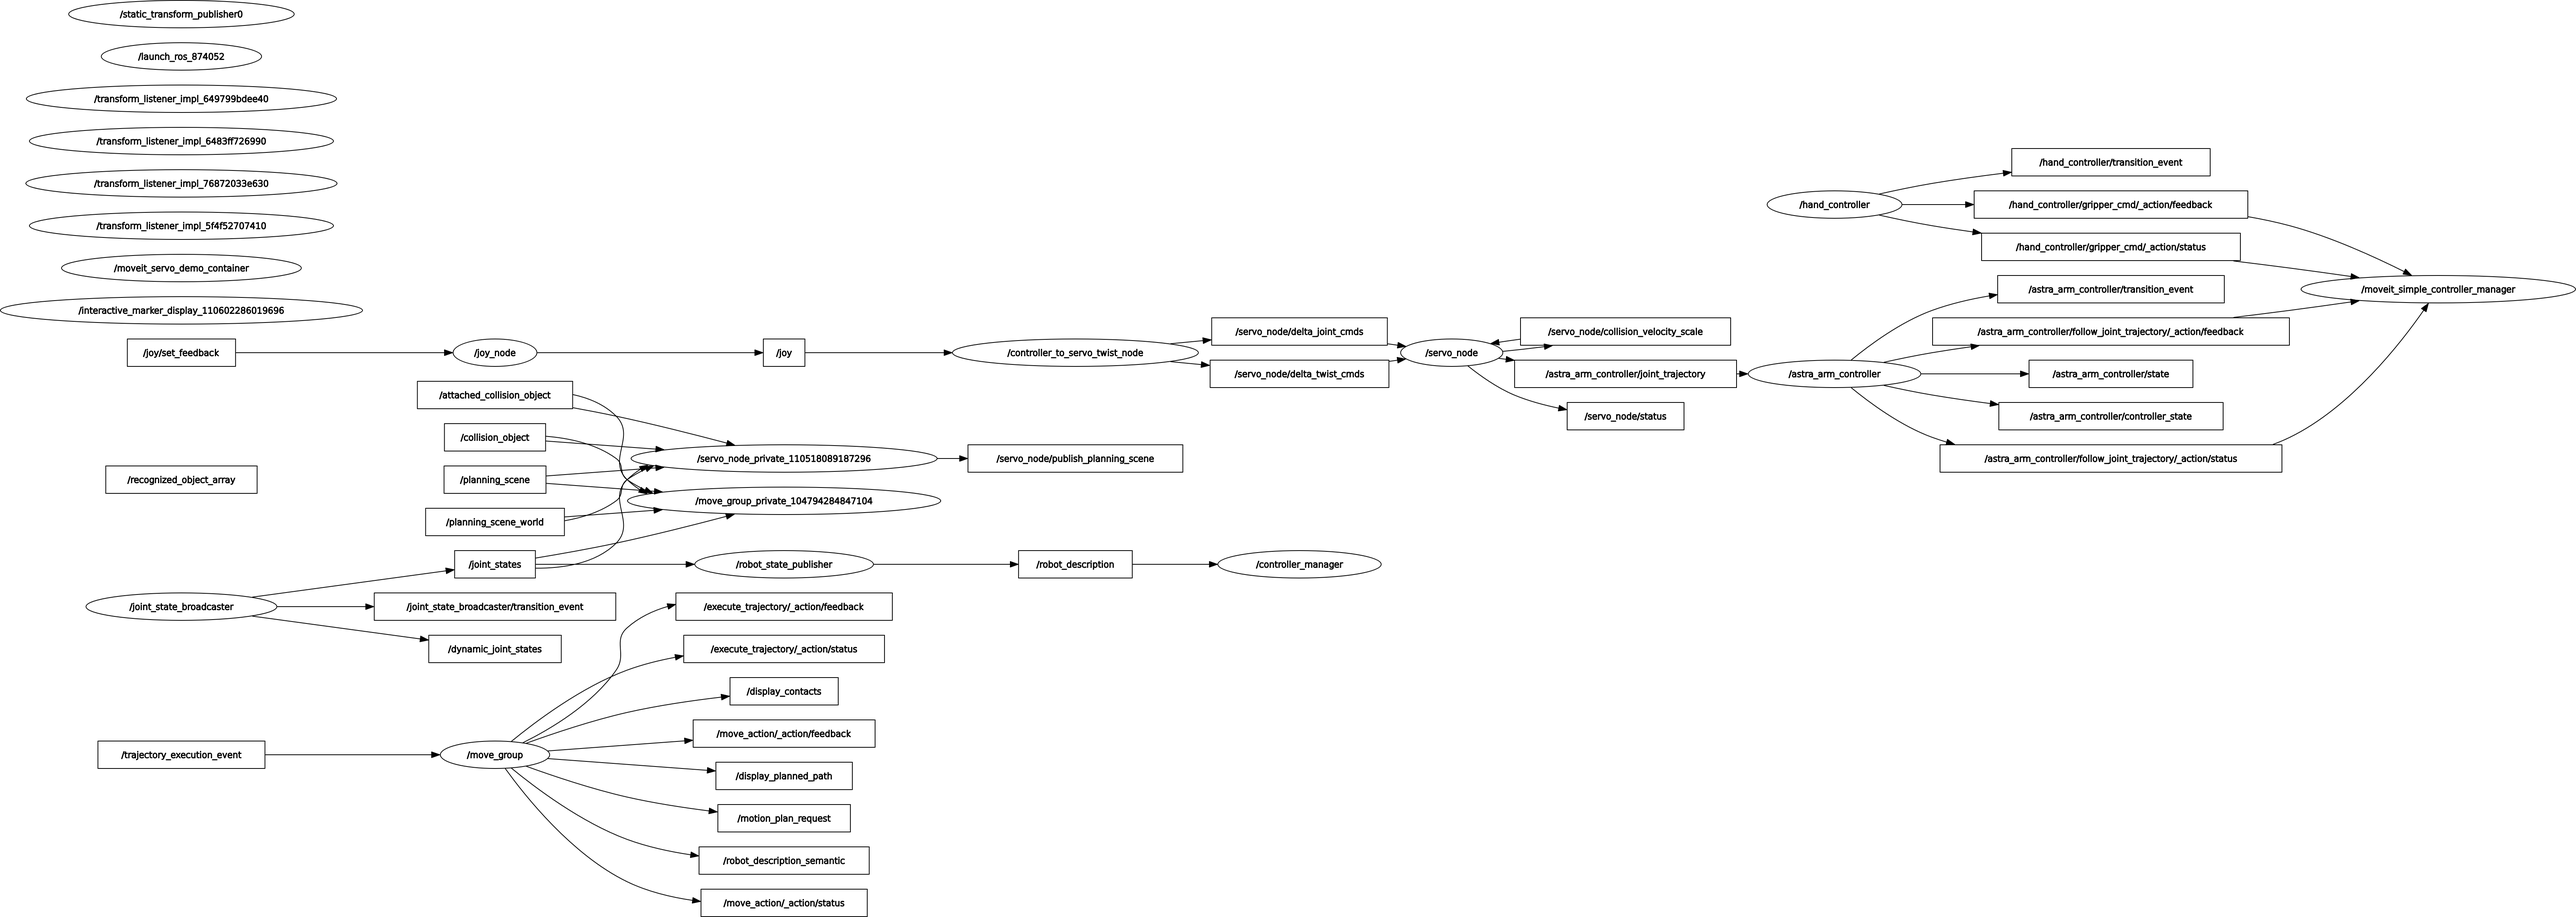
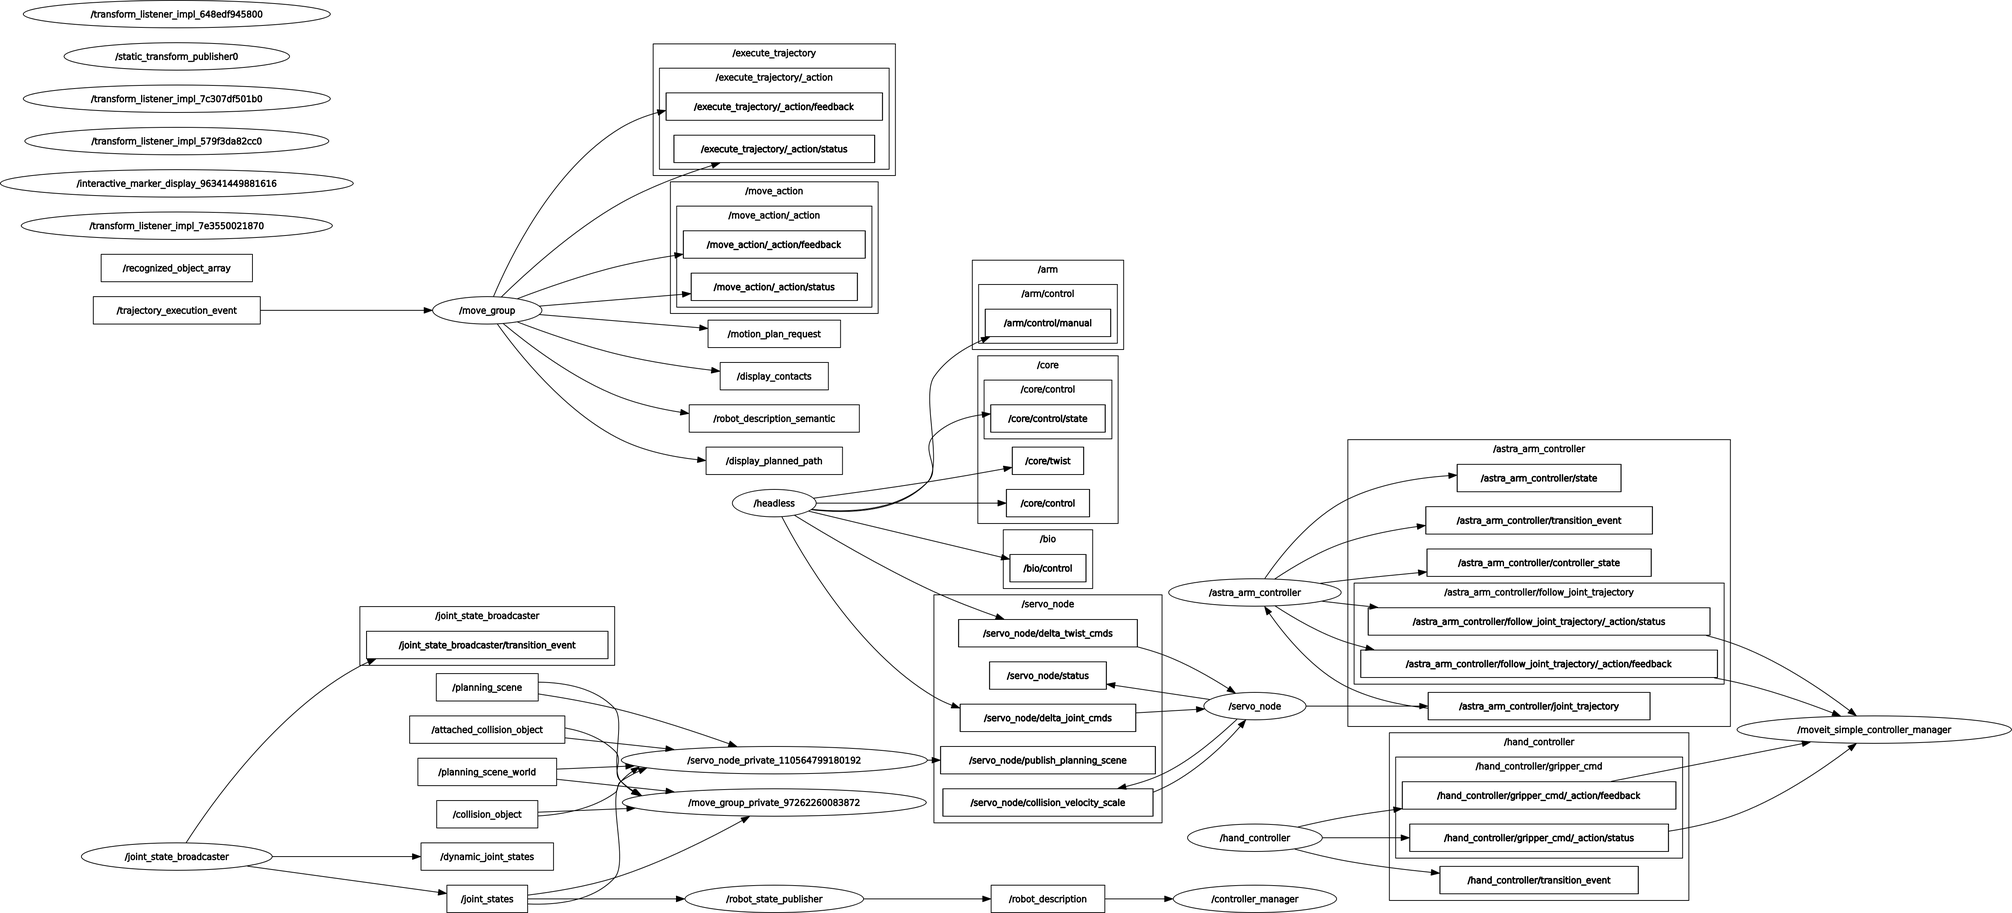
docs: (arm) add headless to rosgraphs

diff --git a/arm_moveit_config/README.md b/arm_moveit_config/README.md
@@ -144,10 +144,10 @@ def generate_launch_description():
 
 ## Graphs
 
-> Moveit2 with ros2_joy and real hardware (Anchor)
+> Moveit2 with ros2_joy and real hardware (Anchor and Headless)
 ![rqt_graph of Moveit2 controlled by ros2_joy and hooked up to Anchor](./graph-moveit2-real-hardware-w-anchor.png)
 
-> Moveit2 with ros2_joy and fake hardware (mock_components)
+> Moveit2 with ros2_joy and fake hardware (mock_components and Headless)
 ![rqt_graph of Moveit2 controlled by ros2_joy with mock_components fake simulated hardware](./graph-moveit2-fake-hw.png)
 ## Maintainer(s)
 
